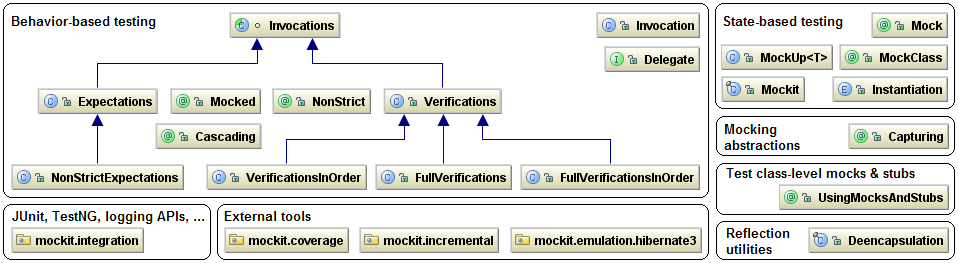
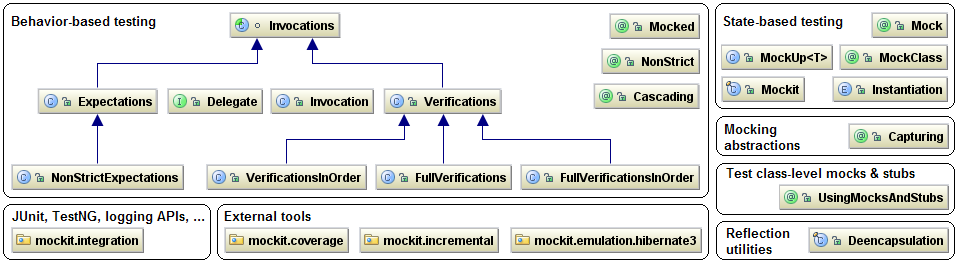
Moved portions of the API figure to make room for new item.
git-svn-id: http://jmockit.googlecode.com/svn/trunk@1290 4d38ed0c-b8d3-11de-a71d-8f2b2e058ad8

Changed region(s): [[0.6054, 0.0304, 0.7568, 0.4259], [0.1514, 0.3346, 0.3935, 0.4259], [0.1514, 0.4563, 0.2724, 0.5779]]

diff --git a/www/javadoc/overview.html b/www/javadoc/overview.html
@@ -14,11 +14,11 @@
       <area shape="rect" coords="10,10,160,32" href="../tutorial/BehaviorBasedTesting.html">
       <area shape="rect" coords="37,87,158,114" href="mockit/Expectations.html"
          title="Base class whose subclasses are defined in test code, and whose instances define a set of expected method/constructor invocations on the mocked types (classes or interfaces) declared through one or more mock fields and/or mock parameters.">
-      <area shape="rect" coords="169,87,261,114" href="mockit/Mocked.html"
+      <area shape="rect" coords="608,12,700,39" href="mockit/Mocked.html"
          title="Indicates an instance field or test method parameter whose value will be a mocked instance.">
-      <area shape="rect" coords="271,87,371,114" href="mockit/NonStrict.html"
+      <area shape="rect" coords="600,47,700,74" href="mockit/NonStrict.html"
          title="For tests using Expectations, indicates a non-strict mocked type for an instance field or test method parameter.">
-      <area shape="rect" coords="154,122,262,149" href="mockit/Cascading.html"
+      <area shape="rect" coords="592,82,700,109" href="mockit/Cascading.html"
          title="Indicates a mocked type where the return types of non-void methods, excluding primitives, String, and collection types, will be mocked automatically if and when an invocation to the method occurs.">
       <area shape="rect" coords="10,163,184,190" href="mockit/NonStrictExpectations.html"
          title="An Expectations subclass where all expectations are automatically non-strict.">
@@ -30,9 +30,9 @@
          title="Same as Verifications, but checking that all invocations in the replay phase are explicitly verified in this verification block.">
       <area shape="rect" coords="519,163,700,190" href="mockit/FullVerificationsInOrder.html"
          title="A combination of FullVerifications and VerificationsInOrder.">
-      <area shape="rect" coords="595,12,700,38" href="mockit/Invocation.html"
+      <area shape="rect" coords="269,87,374,114" href="mockit/Invocation.html"
          title="A context object representing the current invocation to a mocked method or constructor.">
-      <area shape="rect" coords="603,45,700,72" href="mockit/Delegate.html"
+      <area shape="rect" coords="166,87,263,114" href="mockit/Delegate.html"
          title="An empty interface to be used with the Expectations#returns(Object) method, in order to allow test code to define invocation results (return values or thrown errors/exceptions) based on test-specific logic.">
 
       <area shape="rect" coords="720,10,850,32" href="../tutorial/StateBasedTesting.html">

diff --git a/www/about.html b/www/about.html
@@ -48,15 +48,16 @@
    <map name="figure1">
       <area shape="rect" coords="10,10,160,32" href="tutorial/BehaviorBasedTesting.html">
       <area shape="rect" coords="37,87,158,114" href="javadoc/mockit/Expectations.html">
-      <area shape="rect" coords="169,87,261,114" href="javadoc/mockit/Mocked.html">
-      <area shape="rect" coords="271,87,371,114" href="javadoc/mockit/NonStrict.html">
+      <area shape="rect" coords="608,12,700,39" href="javadoc/mockit/Mocked.html">
+      <area shape="rect" coords="600,47,700,74" href="javadoc/mockit/NonStrict.html">
+      <area shape="rect" coords="592,82,700,109" href="javadoc/mockit/Cascading.html">
       <area shape="rect" coords="10,163,184,190" href="javadoc/mockit/NonStrictExpectations.html">
       <area shape="rect" coords="382,87,502,114" href="javadoc/mockit/Verifications.html">
       <area shape="rect" coords="205,163,367,190" href="javadoc/mockit/VerificationsInOrder.html">
       <area shape="rect" coords="374,163,512,190" href="javadoc/mockit/FullVerifications.html">
       <area shape="rect" coords="519,163,700,190" href="javadoc/mockit/FullVerificationsInOrder.html">
-      <area shape="rect" coords="595,12,700,38" href="javadoc/mockit/Invocation.html">
-      <area shape="rect" coords="603,45,700,72" href="javadoc/mockit/Delegate.html">
+      <area shape="rect" coords="269,87,374,114" href="javadoc/mockit/Invocation.html">
+      <area shape="rect" coords="166,87,263,114" href="javadoc/mockit/Delegate.html">
 
       <area shape="rect" coords="720,10,850,32" href="tutorial/StateBasedTesting.html">
       <area shape="rect" coords="720,43,833,70" href="javadoc/mockit/MockUp.html">
